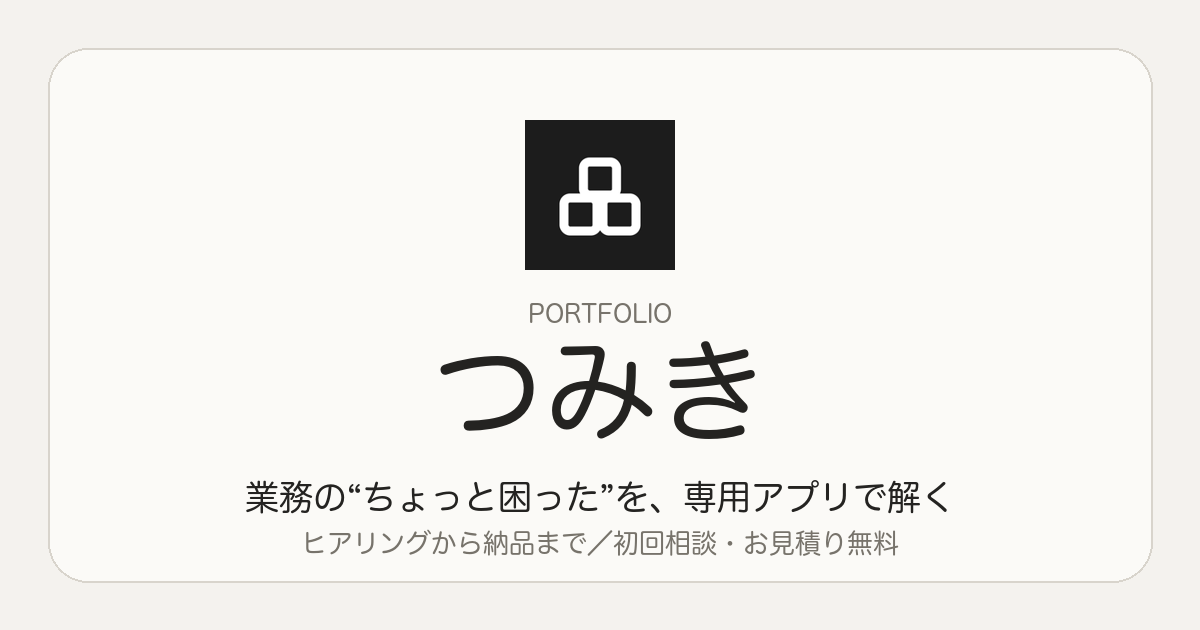
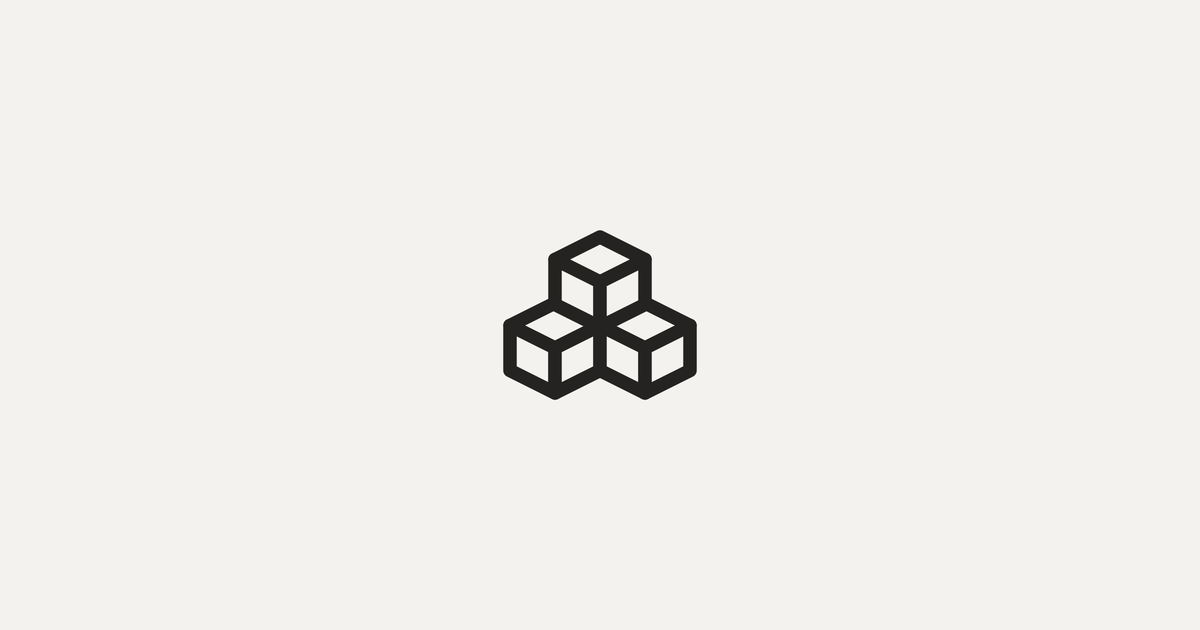
料金に個人プラン(3万円〜/機能により相談見積)を追加／16アプリのプレビューにモック追加／OG画像をロゴのみ(文字なし)に差し替え

diff --git a/apps/app.css b/apps/app.css
@@ -13,11 +13,10 @@ body{
 }
 a{color:inherit;}
 .wrap{max-width:680px; margin:0 auto; padding:0 20px;}
-/* トップバー */
 .topbar{max-width:680px; margin:0 auto; padding:20px; display:flex; align-items:center; justify-content:space-between;}
 .wordmark{font-weight:700; letter-spacing:.02em; text-decoration:none; font-size:17px; color:var(--ink);}
+.wordmark::before{content:"‹ "; color:var(--ghost);}
 .tb-cat{font-size:12px; color:var(--sub); letter-spacing:.1em;}
-/* ヒーロー */
 .hero{display:flex; gap:18px; align-items:center; padding:14px 0 6px;}
 .app-icon{width:88px; height:88px; flex:0 0 auto; border-radius:22px; box-shadow:0 6px 18px rgba(36,35,33,.14); display:block;}
 .app-name{font-size:30px; font-weight:700; line-height:1.25; letter-spacing:.01em;}
@@ -25,48 +24,56 @@ a{color:inherit;}
 .badges{margin-top:10px;}
 .badge{display:inline-block; font-size:13px; padding:5px 12px; border-radius:999px; background:var(--surface); color:var(--sub);}
 .badge-accent{background:color-mix(in srgb, var(--accent) 16%, var(--card)); color:color-mix(in srgb, var(--accent) 62%, var(--ink)); font-weight:500;}
-/* メトリクス */
 .metrics{display:flex; gap:8px; margin-top:20px; overflow-x:auto; scrollbar-width:none;}
 .metrics::-webkit-scrollbar{display:none;}
 .metric{flex:1 0 auto; min-width:84px; background:var(--card); border:1px solid var(--line); border-radius:14px; padding:11px 12px; text-align:center;}
 .m-k{display:block; font-size:11px; color:var(--sub); letter-spacing:.06em;}
 .m-v{display:block; font-size:15px; font-weight:700; margin-top:3px;}
 .m-c{display:block; font-size:10px; color:var(--ghost); margin-top:1px;}
-/* セクション見出し */
 .sec-h{font-size:17px; font-weight:700; margin:38px 0 14px; display:flex; align-items:baseline; gap:10px;}
 .sec-en{font-size:11px; color:var(--ghost); letter-spacing:.18em; font-weight:400;}
-/* プレビュー（軽量デバイス枠） */
-.preview{}
-.device{background:var(--card); border:1px solid var(--line); border-radius:22px; overflow:hidden; box-shadow:0 10px 28px rgba(36,35,33,.08);}
-.dv-bar{height:38px; background:color-mix(in srgb, var(--accent) 22%, var(--surface)); display:flex; align-items:center; gap:7px; padding:0 15px;}
+/* プレビュー（デバイス枠＋モック） */
+.device{background:var(--card); border:1px solid var(--line); border-radius:22px; overflow:hidden; box-shadow:0 10px 28px rgba(36,35,33,.08); max-width:340px; margin:0 auto;}
+.dv-bar{height:36px; background:color-mix(in srgb, var(--accent) 22%, var(--surface)); display:flex; align-items:center; gap:7px; padding:0 15px;}
 .dv-dot{width:10px; height:10px; border-radius:50%; background:color-mix(in srgb, var(--accent) 45%, #fff);}
-.dv-screen{padding:26px 22px 30px; display:flex; flex-direction:column; align-items:center; gap:14px; background:linear-gradient(180deg, color-mix(in srgb, var(--accent) 7%, var(--paper)), var(--paper));}
-.dv-appicon img{width:60px; height:60px; border-radius:16px; display:block; box-shadow:0 4px 12px rgba(36,35,33,.12);}
-.dv-title{font-weight:700; font-size:16px;}
-.dv-rows{width:100%; max-width:280px; display:flex; flex-direction:column; gap:9px; margin-top:4px;}
-.dv-rows span{height:13px; border-radius:7px; background:var(--surface); border:1px solid var(--line);}
-.dv-rows span:nth-child(1){width:100%;} .dv-rows span:nth-child(2){width:82%;} .dv-rows span:nth-child(3){width:64%; background:color-mix(in srgb, var(--accent) 14%, var(--surface));}
-.note{font-size:12px; color:var(--sub); margin-top:10px; line-height:1.65;}
-/* 紹介 */
+.dv-screen{padding:16px 16px 22px; background:linear-gradient(180deg, color-mix(in srgb, var(--accent) 7%, var(--paper)), var(--paper)); display:flex; flex-direction:column; gap:12px;}
+.dv-head{display:flex; align-items:center; gap:9px;}
+.dv-head img{width:26px; height:26px; border-radius:8px; display:block;}
+.dv-head b{font-size:14px;}
+.dv-mock{display:flex; flex-direction:column; gap:8px;}
+.mk-row{display:flex; align-items:center; gap:9px; background:var(--card); border:1px solid var(--line); border-radius:10px; padding:9px 10px;}
+.mk-dot{width:9px; height:9px; border-radius:50%; background:color-mix(in srgb,var(--accent) 60%,#fff); flex:0 0 auto;}
+.mk-bar{height:8px; border-radius:5px; background:var(--surface); flex:1;}
+.mk-val{width:34px; height:8px; border-radius:5px; background:color-mix(in srgb,var(--accent) 30%,var(--surface)); flex:0 0 auto;}
+.mk-check{width:16px; height:16px; border-radius:5px; border:1.5px solid var(--line); flex:0 0 auto;}
+.mk-check.on{background:var(--accent); border-color:var(--accent); position:relative;}
+.mk-check.on::after{content:""; position:absolute; left:4px; top:1px; width:5px; height:8px; border:2px solid #fff; border-top:0; border-left:0; transform:rotate(40deg);}
+.mk-mask{font-size:13px; letter-spacing:3px; color:var(--ghost); flex:0 0 auto;}
+.mk-tags{display:flex; gap:6px; flex-wrap:wrap; padding:2px 0;}
+.mk-tags span{font-size:10px; padding:3px 10px; border-radius:999px; background:color-mix(in srgb,var(--accent) 13%,var(--card)); color:color-mix(in srgb,var(--accent) 60%,var(--ink)); border:1px solid var(--line);}
+.mk-num{text-align:center; font-size:12px; color:var(--sub); padding:10px 0 4px;}
+.mk-num b{display:block; font-size:30px; color:var(--ink); font-weight:700; letter-spacing:.02em; margin-top:2px;}
+.mk-btn{text-align:center; font-size:12px; font-weight:700; color:#fff; background:var(--accent); border-radius:10px; padding:9px; opacity:.92;}
+.mk-cal{display:grid; grid-template-columns:repeat(7,1fr); gap:5px; background:var(--card); border:1px solid var(--line); border-radius:12px; padding:12px;}
+.mk-cal i{aspect-ratio:1; border-radius:5px; background:var(--surface);}
+.mk-cal i.on{background:var(--accent); opacity:.9;}
+.mk-svg{width:100%; height:110px; background:var(--card); border:1px solid var(--line); border-radius:12px; display:block;}
+.note{font-size:12px; color:var(--sub); margin-top:12px; line-height:1.65; text-align:center;}
 .about{font-size:15.5px; line-height:1.95;}
-/* つかいかた */
 .how{list-style:none; display:flex; flex-direction:column; gap:12px;}
 .how li{display:flex; gap:14px; background:var(--card); border:1px solid var(--line); border-radius:16px; padding:15px 16px;}
 .ah-no{flex:0 0 auto; font-size:13px; font-weight:700; color:#fff; background:var(--accent); width:28px; height:28px; border-radius:9px; display:flex; align-items:center; justify-content:center; opacity:.85;}
 .ah-t{font-weight:700; font-size:15px;}
 .ah-d{font-size:13.5px; color:var(--sub); line-height:1.7; margin-top:2px;}
-/* 特徴 */
 .feats{display:grid; grid-template-columns:1fr 1fr; gap:11px;}
 .feat{background:var(--card); border:1px solid var(--line); border-radius:16px; padding:15px 15px;}
 .af-t{font-weight:700; font-size:14.5px;}
 .af-d{font-size:12.5px; color:var(--sub); line-height:1.65; margin-top:5px;}
-/* 情報 */
 .panel{background:var(--card); border:1px solid var(--line); border-radius:18px; overflow:hidden;}
 .dl-row{display:flex; gap:14px; padding:13px 17px; border-top:1px solid var(--line);}
 .dl-row:first-child{border-top:none;}
 .dl-k{flex:0 0 88px; font-size:13px; color:var(--sub);}
 .dl-v{font-size:14px; flex:1;}
-/* CTA */
 .cta{margin-top:40px; background:var(--card); border:1px solid var(--line); border-radius:20px; padding:26px 22px; text-align:center;}
 .cta-t{font-size:17px; font-weight:700; line-height:1.5;}
 .cta-d{font-size:13.5px; color:var(--sub); line-height:1.75; margin-top:10px;}

diff --git a/index.html b/index.html
@@ -705,6 +705,18 @@
       <p class="sheet-lead">初回のヒアリングは無料です。制作費は、作るものの規模で決まります。</p>
 
       <p class="h3">料金の目安<span class="h3-en">FROM</span></p>
+
+      <p class="price-group">個人のみなさま<span class="pg-en">FOR INDIVIDUALS</span></p>
+      <div class="price-grid one">
+        <div class="price-card">
+          <p class="pc-name">個人向け</p>
+          <p class="pc-sub">身のまわりの“ちょっと困った”を、専用アプリで</p>
+          <p class="pc-amt"><span class="pc-num">3</span>万円<span class="pc-from">〜</span></p>
+          <p class="pc-term">まずは1機能から。ここから先は、欲しい機能に合わせてご相談・お見積りします。</p>
+        </div>
+      </div>
+
+      <p class="price-group">法人のみなさま<span class="pg-en">FOR BUSINESS</span></p>
       <div class="price-grid">
         <div class="price-card">
           <p class="pc-name">小規模</p>

diff --git a/apps/chiritsumo.html b/apps/chiritsumo.html
@@ -12,7 +12,7 @@
 <link rel="preconnect" href="https://fonts.googleapis.com">
 <link rel="preconnect" href="https://fonts.gstatic.com" crossorigin>
 <link href="https://fonts.googleapis.com/css2?family=Zen+Maru+Gothic:wght@400;500;700&display=swap" rel="stylesheet">
-<link rel="stylesheet" href="app.css?v=1">
+<link rel="stylesheet" href="app.css?v=2">
 <meta property="og:type" content="website">
 <meta property="og:site_name" content="つみき（Tsumiki）">
 <meta property="og:title" content="ちりつも — 使ったお金を、サッと一記録。">
@@ -46,9 +46,8 @@
     <div class="device">
       <div class="dv-bar"><span class="dv-dot"></span><span class="dv-dot"></span><span class="dv-dot"></span></div>
       <div class="dv-screen">
-        <div class="dv-appicon"><img src="../icons/icon-chiritsumo.png" alt=""></div>
-        <div class="dv-title">ちりつも</div>
-        <div class="dv-rows"><span></span><span></span><span></span></div>
+        <div class="dv-head"><img src="../icons/icon-chiritsumo.png" alt=""><b>ちりつも</b></div>
+        <div class="dv-mock"><div class="mk-row"><span class="mk-dot"></span><span class="mk-bar" style="max-width:100%"></span><span class="mk-val"></span></div><div class="mk-row"><span class="mk-dot"></span><span class="mk-bar" style="max-width:78%"></span><span class="mk-val"></span></div><div class="mk-row"><span class="mk-dot"></span><span class="mk-bar" style="max-width:64%"></span><span class="mk-val"></span></div><div class="mk-row"><span class="mk-dot"></span><span class="mk-bar" style="max-width:86%"></span><span class="mk-val"></span></div></div>
       </div>
     </div>
     <p class="note">画面はイメージです（配色はアプリの世界観に合わせた再現）。実際のデータは含みません。</p>

diff --git a/apps/cooking.html b/apps/cooking.html
@@ -12,7 +12,7 @@
 <link rel="preconnect" href="https://fonts.googleapis.com">
 <link rel="preconnect" href="https://fonts.gstatic.com" crossorigin>
 <link href="https://fonts.googleapis.com/css2?family=Zen+Maru+Gothic:wght@400;500;700&display=swap" rel="stylesheet">
-<link rel="stylesheet" href="app.css?v=1">
+<link rel="stylesheet" href="app.css?v=2">
 <meta property="og:type" content="website">
 <meta property="og:site_name" content="つみき（Tsumiki）">
 <meta property="og:title" content="料理日記 — 2人で育てる、献立ノート。">
@@ -46,9 +46,8 @@
     <div class="device">
       <div class="dv-bar"><span class="dv-dot"></span><span class="dv-dot"></span><span class="dv-dot"></span></div>
       <div class="dv-screen">
-        <div class="dv-appicon"><img src="../icons/icon-cooking.png" alt=""></div>
-        <div class="dv-title">料理日記</div>
-        <div class="dv-rows"><span></span><span></span><span></span></div>
+        <div class="dv-head"><img src="../icons/icon-cooking.png" alt=""><b>料理日記</b></div>
+        <div class="dv-mock"><div class="mk-row"><span class="mk-dot"></span><span class="mk-bar" style="max-width:100%"></span><span class="mk-val"></span></div><div class="mk-row"><span class="mk-dot"></span><span class="mk-bar" style="max-width:78%"></span><span class="mk-val"></span></div><div class="mk-row"><span class="mk-dot"></span><span class="mk-bar" style="max-width:64%"></span><span class="mk-val"></span></div><div class="mk-row"><span class="mk-dot"></span><span class="mk-bar" style="max-width:86%"></span><span class="mk-val"></span></div></div>
       </div>
     </div>
     <p class="note">画面はイメージです（配色はアプリの世界観に合わせた再現）。実際のデータは含みません。</p>

diff --git a/apps/copybox.html b/apps/copybox.html
@@ -12,7 +12,7 @@
 <link rel="preconnect" href="https://fonts.googleapis.com">
 <link rel="preconnect" href="https://fonts.gstatic.com" crossorigin>
 <link href="https://fonts.googleapis.com/css2?family=Zen+Maru+Gothic:wght@400;500;700&display=swap" rel="stylesheet">
-<link rel="stylesheet" href="app.css?v=1">
+<link rel="stylesheet" href="app.css?v=2">
 <meta property="og:type" content="website">
 <meta property="og:site_name" content="つみき（Tsumiki）">
 <meta property="og:title" content="コピペ箱 — よく使う文を、ワンタップでコピー。">
@@ -46,9 +46,8 @@
     <div class="device">
       <div class="dv-bar"><span class="dv-dot"></span><span class="dv-dot"></span><span class="dv-dot"></span></div>
       <div class="dv-screen">
-        <div class="dv-appicon"><img src="../icons/icon-copybox.png" alt=""></div>
-        <div class="dv-title">コピペ箱</div>
-        <div class="dv-rows"><span></span><span></span><span></span></div>
+        <div class="dv-head"><img src="../icons/icon-copybox.png" alt=""><b>コピペ箱</b></div>
+        <div class="dv-mock"><div class="mk-tags"><span>#仕事</span><span>#買い物</span><span>#メモ</span><span>#定型文</span></div><div class="mk-row"><span class="mk-bar" style="max-width:90%"></span></div><div class="mk-row"><span class="mk-bar" style="max-width:70%"></span></div></div>
       </div>
     </div>
     <p class="note">画面はイメージです（配色はアプリの世界観に合わせた再現）。実際のデータは含みません。</p>

diff --git a/apps/credit.html b/apps/credit.html
@@ -12,7 +12,7 @@
 <link rel="preconnect" href="https://fonts.googleapis.com">
 <link rel="preconnect" href="https://fonts.gstatic.com" crossorigin>
 <link href="https://fonts.googleapis.com/css2?family=Zen+Maru+Gothic:wght@400;500;700&display=swap" rel="stylesheet">
-<link rel="stylesheet" href="app.css?v=1">
+<link rel="stylesheet" href="app.css?v=2">
 <meta property="og:type" content="website">
 <meta property="og:site_name" content="つみき（Tsumiki）">
 <meta property="og:title" content="明細マネージャー — 立て替えとカード支出を、分けて管理。">
@@ -46,9 +46,8 @@
     <div class="device">
       <div class="dv-bar"><span class="dv-dot"></span><span class="dv-dot"></span><span class="dv-dot"></span></div>
       <div class="dv-screen">
-        <div class="dv-appicon"><img src="../icons/icon-credit.png" alt=""></div>
-        <div class="dv-title">明細マネージャー</div>
-        <div class="dv-rows"><span></span><span></span><span></span></div>
+        <div class="dv-head"><img src="../icons/icon-credit.png" alt=""><b>明細マネージャー</b></div>
+        <div class="dv-mock"><div class="mk-row"><span class="mk-dot"></span><span class="mk-bar" style="max-width:100%"></span><span class="mk-val"></span></div><div class="mk-row"><span class="mk-dot"></span><span class="mk-bar" style="max-width:78%"></span><span class="mk-val"></span></div><div class="mk-row"><span class="mk-dot"></span><span class="mk-bar" style="max-width:64%"></span><span class="mk-val"></span></div><div class="mk-row"><span class="mk-dot"></span><span class="mk-bar" style="max-width:86%"></span><span class="mk-val"></span></div></div>
       </div>
     </div>
     <p class="note">画面はイメージです（配色はアプリの世界観に合わせた再現）。実際のデータは含みません。</p>

diff --git a/apps/forecast.html b/apps/forecast.html
@@ -12,7 +12,7 @@
 <link rel="preconnect" href="https://fonts.googleapis.com">
 <link rel="preconnect" href="https://fonts.gstatic.com" crossorigin>
 <link href="https://fonts.googleapis.com/css2?family=Zen+Maru+Gothic:wght@400;500;700&display=swap" rel="stylesheet">
-<link rel="stylesheet" href="app.css?v=1">
+<link rel="stylesheet" href="app.css?v=2">
 <meta property="og:type" content="website">
 <meta property="og:site_name" content="つみき（Tsumiki）">
 <meta property="og:title" content="資産予測グラフ — 資産の未来を、グラフで見る。">
@@ -46,9 +46,8 @@
     <div class="device">
       <div class="dv-bar"><span class="dv-dot"></span><span class="dv-dot"></span><span class="dv-dot"></span></div>
       <div class="dv-screen">
-        <div class="dv-appicon"><img src="../icons/icon-forecast.png" alt=""></div>
-        <div class="dv-title">資産予測グラフ</div>
-        <div class="dv-rows"><span></span><span></span><span></span></div>
+        <div class="dv-head"><img src="../icons/icon-forecast.png" alt=""><b>資産予測グラフ</b></div>
+        <div class="dv-mock"><svg class="mk-svg" viewBox="0 0 300 110" preserveAspectRatio="none"><defs><linearGradient id="g" x1="0" y1="0" x2="0" y2="1"><stop offset="0" stop-color="var(--accent)" stop-opacity=".28"/><stop offset="1" stop-color="var(--accent)" stop-opacity="0"/></linearGradient></defs><path d="M6 92 L60 78 L114 82 L168 56 L222 40 L294 14 L294 104 L6 104 Z" fill="url(#g)"/><polyline points="6,92 60,78 114,82 168,56 222,40 294,14" fill="none" stroke="var(--accent)" stroke-width="3" stroke-linecap="round" stroke-linejoin="round"/></svg></div>
       </div>
     </div>
     <p class="note">画面はイメージです（配色はアプリの世界観に合わせた再現）。実際のデータは含みません。</p>

diff --git a/apps/gijiroku.html b/apps/gijiroku.html
@@ -12,7 +12,7 @@
 <link rel="preconnect" href="https://fonts.googleapis.com">
 <link rel="preconnect" href="https://fonts.gstatic.com" crossorigin>
 <link href="https://fonts.googleapis.com/css2?family=Zen+Maru+Gothic:wght@400;500;700&display=swap" rel="stylesheet">
-<link rel="stylesheet" href="app.css?v=1">
+<link rel="stylesheet" href="app.css?v=2">
 <meta property="og:type" content="website">
 <meta property="og:site_name" content="つみき（Tsumiki）">
 <meta property="og:title" content="議事録 — 会議を、決定とToDoに変える。">
@@ -46,9 +46,8 @@
     <div class="device">
       <div class="dv-bar"><span class="dv-dot"></span><span class="dv-dot"></span><span class="dv-dot"></span></div>
       <div class="dv-screen">
-        <div class="dv-appicon"><img src="../icons/icon-gijiroku.png" alt=""></div>
-        <div class="dv-title">議事録</div>
-        <div class="dv-rows"><span></span><span></span><span></span></div>
+        <div class="dv-head"><img src="../icons/icon-gijiroku.png" alt=""><b>議事録</b></div>
+        <div class="dv-mock"><div class="mk-row"><span class="mk-dot"></span><span class="mk-bar" style="max-width:100%"></span><span class="mk-val"></span></div><div class="mk-row"><span class="mk-dot"></span><span class="mk-bar" style="max-width:78%"></span><span class="mk-val"></span></div><div class="mk-row"><span class="mk-dot"></span><span class="mk-bar" style="max-width:64%"></span><span class="mk-val"></span></div><div class="mk-row"><span class="mk-dot"></span><span class="mk-bar" style="max-width:86%"></span><span class="mk-val"></span></div></div>
       </div>
     </div>
     <p class="note">画面はイメージです（配色はアプリの世界観に合わせた再現）。実際のデータは含みません。</p>

diff --git a/apps/hikiotoshi.html b/apps/hikiotoshi.html
@@ -12,7 +12,7 @@
 <link rel="preconnect" href="https://fonts.googleapis.com">
 <link rel="preconnect" href="https://fonts.gstatic.com" crossorigin>
 <link href="https://fonts.googleapis.com/css2?family=Zen+Maru+Gothic:wght@400;500;700&display=swap" rel="stylesheet">
-<link rel="stylesheet" href="app.css?v=1">
+<link rel="stylesheet" href="app.css?v=2">
 <meta property="og:type" content="website">
 <meta property="og:site_name" content="つみき（Tsumiki）">
 <meta property="og:title" content="ひきおとし — 引き落とし日を、カレンダーで。">
@@ -46,9 +46,8 @@
     <div class="device">
       <div class="dv-bar"><span class="dv-dot"></span><span class="dv-dot"></span><span class="dv-dot"></span></div>
       <div class="dv-screen">
-        <div class="dv-appicon"><img src="../icons/icon-hikiotoshi.png" alt=""></div>
-        <div class="dv-title">ひきおとし</div>
-        <div class="dv-rows"><span></span><span></span><span></span></div>
+        <div class="dv-head"><img src="../icons/icon-hikiotoshi.png" alt=""><b>ひきおとし</b></div>
+        <div class="dv-mock"><div class="mk-cal"><i class=""></i><i class=""></i><i class=""></i><i class=""></i><i class="on"></i><i class=""></i><i class=""></i><i class=""></i><i class=""></i><i class="on"></i><i class="on"></i><i class=""></i><i class=""></i><i class=""></i><i class=""></i><i class=""></i><i class="on"></i><i class=""></i><i class=""></i><i class=""></i><i class=""></i></div></div>
       </div>
     </div>
     <p class="note">画面はイメージです（配色はアプリの世界観に合わせた再現）。実際のデータは含みません。</p>

diff --git a/apps/kaimono.html b/apps/kaimono.html
@@ -12,7 +12,7 @@
 <link rel="preconnect" href="https://fonts.googleapis.com">
 <link rel="preconnect" href="https://fonts.gstatic.com" crossorigin>
 <link href="https://fonts.googleapis.com/css2?family=Zen+Maru+Gothic:wght@400;500;700&display=swap" rel="stylesheet">
-<link rel="stylesheet" href="app.css?v=1">
+<link rel="stylesheet" href="app.css?v=2">
 <meta property="og:type" content="website">
 <meta property="og:site_name" content="つみき（Tsumiki）">
 <meta property="og:title" content="おつかいカート — 頼まれた物を、効率よく。">
@@ -46,9 +46,8 @@
     <div class="device">
       <div class="dv-bar"><span class="dv-dot"></span><span class="dv-dot"></span><span class="dv-dot"></span></div>
       <div class="dv-screen">
-        <div class="dv-appicon"><img src="../icons/icon-kaimono.png" alt=""></div>
-        <div class="dv-title">おつかいカート</div>
-        <div class="dv-rows"><span></span><span></span><span></span></div>
+        <div class="dv-head"><img src="../icons/icon-kaimono.png" alt=""><b>おつかいカート</b></div>
+        <div class="dv-mock"><div class="mk-row"><span class="mk-check on"></span><span class="mk-bar" style="max-width:70%"></span></div><div class="mk-row"><span class="mk-check on"></span><span class="mk-bar" style="max-width:84%"></span></div><div class="mk-row"><span class="mk-check "></span><span class="mk-bar" style="max-width:62%"></span></div><div class="mk-row"><span class="mk-check "></span><span class="mk-bar" style="max-width:78%"></span></div></div>
       </div>
     </div>
     <p class="note">画面はイメージです（配色はアプリの世界観に合わせた再現）。実際のデータは含みません。</p>

diff --git a/apps/komame.html b/apps/komame.html
@@ -12,7 +12,7 @@
 <link rel="preconnect" href="https://fonts.googleapis.com">
 <link rel="preconnect" href="https://fonts.gstatic.com" crossorigin>
 <link href="https://fonts.googleapis.com/css2?family=Zen+Maru+Gothic:wght@400;500;700&display=swap" rel="stylesheet">
-<link rel="stylesheet" href="app.css?v=1">
+<link rel="stylesheet" href="app.css?v=2">
 <meta property="og:type" content="website">
 <meta property="og:site_name" content="つみき（Tsumiki）">
 <meta property="og:title" content="こまめ — 家のおそうじを、こまめに回す。">
@@ -46,9 +46,8 @@
     <div class="device">
       <div class="dv-bar"><span class="dv-dot"></span><span class="dv-dot"></span><span class="dv-dot"></span></div>
       <div class="dv-screen">
-        <div class="dv-appicon"><img src="../icons/icon-komame.png" alt=""></div>
-        <div class="dv-title">こまめ</div>
-        <div class="dv-rows"><span></span><span></span><span></span></div>
+        <div class="dv-head"><img src="../icons/icon-komame.png" alt=""><b>こまめ</b></div>
+        <div class="dv-mock"><div class="mk-row"><span class="mk-dot"></span><span class="mk-bar" style="max-width:100%"></span><span class="mk-val"></span></div><div class="mk-row"><span class="mk-dot"></span><span class="mk-bar" style="max-width:78%"></span><span class="mk-val"></span></div><div class="mk-row"><span class="mk-dot"></span><span class="mk-bar" style="max-width:64%"></span><span class="mk-val"></span></div><div class="mk-row"><span class="mk-dot"></span><span class="mk-bar" style="max-width:86%"></span><span class="mk-val"></span></div></div>
       </div>
     </div>
     <p class="note">画面はイメージです（配色はアプリの世界観に合わせた再現）。実際のデータは含みません。</p>

diff --git a/apps/maitsuki.html b/apps/maitsuki.html
@@ -12,7 +12,7 @@
 <link rel="preconnect" href="https://fonts.googleapis.com">
 <link rel="preconnect" href="https://fonts.gstatic.com" crossorigin>
 <link href="https://fonts.googleapis.com/css2?family=Zen+Maru+Gothic:wght@400;500;700&display=swap" rel="stylesheet">
-<link rel="stylesheet" href="app.css?v=1">
+<link rel="stylesheet" href="app.css?v=2">
 <meta property="og:type" content="website">
 <meta property="og:site_name" content="つみき（Tsumiki）">
 <meta property="og:title" content="まいつき — 毎月の固定費を、円グラフで。">
@@ -46,9 +46,8 @@
     <div class="device">
       <div class="dv-bar"><span class="dv-dot"></span><span class="dv-dot"></span><span class="dv-dot"></span></div>
       <div class="dv-screen">
-        <div class="dv-appicon"><img src="../icons/icon-maitsuki.png" alt=""></div>
-        <div class="dv-title">まいつき</div>
-        <div class="dv-rows"><span></span><span></span><span></span></div>
+        <div class="dv-head"><img src="../icons/icon-maitsuki.png" alt=""><b>まいつき</b></div>
+        <div class="dv-mock"><svg class="mk-svg" viewBox="0 0 110 110" style="height:120px"><g><circle cx="55" cy="55" r="38" fill="none" stroke="var(--accent)" stroke-opacity="0.9" stroke-width="16" stroke-dasharray="100.3 138.5" stroke-dashoffset="-0.0" transform="rotate(-90 55 55)"/><circle cx="55" cy="55" r="38" fill="none" stroke="var(--accent)" stroke-opacity="0.62" stroke-width="16" stroke-dasharray="66.9 171.9" stroke-dashoffset="-100.3" transform="rotate(-90 55 55)"/><circle cx="55" cy="55" r="38" fill="none" stroke="var(--accent)" stroke-opacity="0.4" stroke-width="16" stroke-dasharray="43.0 195.8" stroke-dashoffset="-167.1" transform="rotate(-90 55 55)"/><circle cx="55" cy="55" r="38" fill="none" stroke="var(--accent)" stroke-opacity="0.24" stroke-width="16" stroke-dasharray="28.7 210.1" stroke-dashoffset="-210.1" transform="rotate(-90 55 55)"/></g></svg></div>
       </div>
     </div>
     <p class="note">画面はイメージです（配色はアプリの世界観に合わせた再現）。実際のデータは含みません。</p>